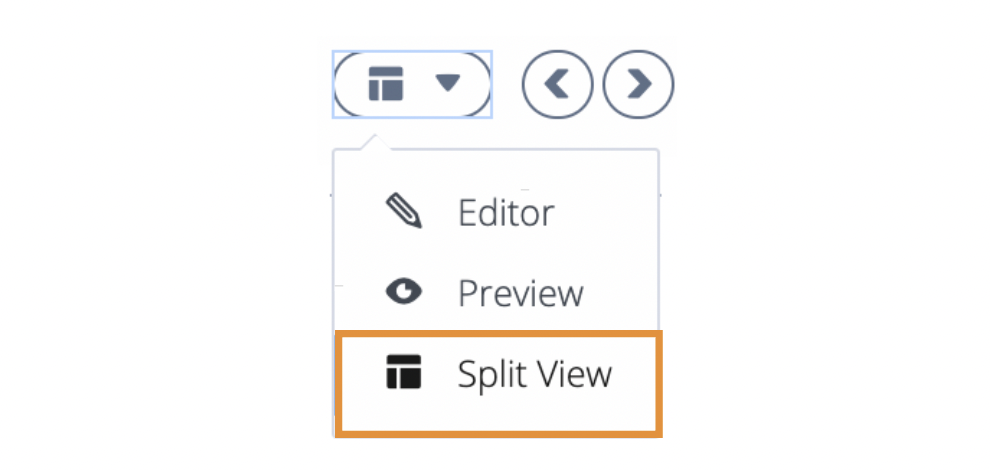
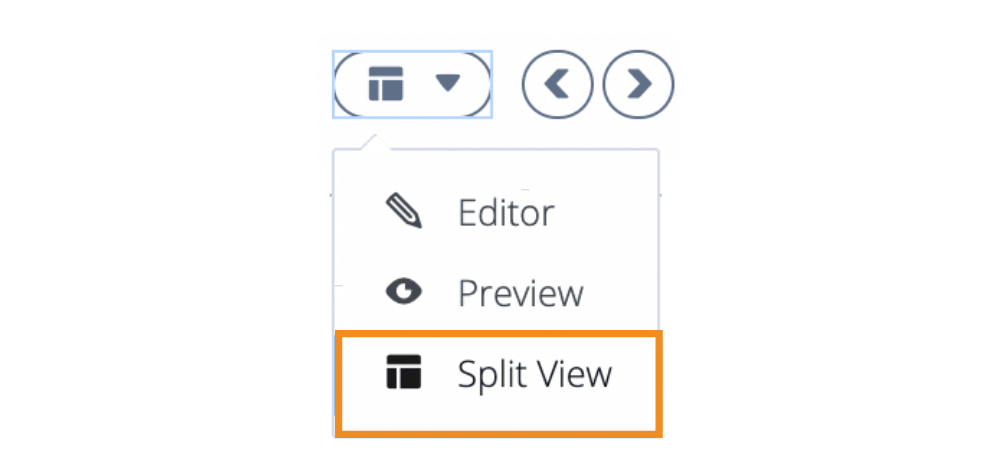
adjusted png file sizes

Changed region(s): [[0.3333, 0.6851, 0.6667, 0.9532]]

diff --git a/.guides/content/Setting-up-your-page-for-display-ec35.md b/.guides/content/Setting-up-your-page-for-display-ec35.md
@@ -2,9 +2,9 @@
 
 | Type of Page | Description |
 | :------ | :----------- | 
-|**1 panel** ![One panel_Guide](.guides/img/1panel.png)| This page has only one panel. There is no need for a code window or terminal. |
-|**2 panels**! ![Two panels_Code Window/Guide](.guides/img/2panelnew.png) | This page has two panels: the code window and the Guide. |
-|**3 panels** !![Three panels_Code Window/Guide/Terminal](.guides/img/3panelnew.png) | This page has three panels: the code window, the terminal and the Guide.|
+|**1 panel** ![One panel_Guide](.guides/img/onepanel.png)| This page has only one panel. There is no need for a code window or terminal. |
+|**2 panels** ![Two panels_Code Window/Guide](.guides/img/twopanel.png) | This page has two panels: the code window and the Guide. |
+|**3 panels** ![Three panels_Code Window/Guide/Terminal](.guides/img/threepanel.png) | This page has three panels: the code window, the terminal and the Guide.|
 
 ## Creating a Page with 2 Panels
 ---
@@ -14,7 +14,7 @@ Follow the steps below to create a page with a code window:
 
 2. Highlight **Page 2** and rename it “Adding a Code Window.”
 
-3. Add some text to your Guide. Click the clipboard to copy the text. Paste into your page.
+3. Add some text to your Guide. Click the clipboard to copy the text below. Paste into your page.
 
 ```
 ### Code Window
@@ -31,7 +31,7 @@ Directions/instructions on what students should do in the code window would go h
 
 7. **Save and Close** settings.
 
-![Add panels for a code window](.guides/img/addacodewindow1.png)
+![Add panels for a code window](.guides/img/addcodewind1.png)
 
 8. Click **Open Tabs.**
  
@@ -39,7 +39,7 @@ Directions/instructions on what students should do in the code window would go h
 
 10. **Save and Close** settings.
 
-![Add code window file in open tabs](.guides/img/addacodewindow2.png)
+![Add code window file in open tabs](.guides/img/addcodewind2.png)
 
 11. Now, when you click **Preview**, you should see two panels: the code window and the Guide! 
 
@@ -52,7 +52,7 @@ Follow the steps below to create a page with a code window and a terminal:
 
 13. Highlight **New Page** and rename it “Adding a Terminal.”
 
-14. Add some text to our Guide. Click the clipboard to copy the text. Paste into your page.
+14. Add some text to our Guide. Click the clipboard to copy the text below. Paste into your page.
 
 ```
 Terminal 
@@ -69,13 +69,15 @@ The terminal allows us to work with code that requires input.
 
 18. **Save and Close** settings.
 
-![Add panels for a terminal](.guides/img/new3panel.png)
+![Add panels for a terminal](.guides/img/addterminal1.png)
 
 19. Click **Open Tabs.**
 
 20. First, add the code window. Drag over the file `test2.py` into the space under `Add Tab`. Make sure the location of the panel is 0. 
 
 21. Now, add the terminal. Click the **Add Tab** button and specify that the type is **Terminal.** Make sure the location of the panel is 1. 
+
+![Add terminal file in open tabs](.guides/img/addterm2.png)
 
 <table><tbody ><tr><td><details><summary>
 Helpful Advice!
@@ -85,7 +87,5 @@ Type `clear` into the Terminal's file name to get a much cleaner Terminal!</deta
 </table>
 	
 22. **Save and Close** settings.
-
-![Add terminal file in open tabs](.guides/img/new3panelopentabs.png)
 
 23. Now, when you click **Preview**, you should see three panels: the code window, the Terminal and the Guide! 

diff --git a/.guides/content/Adding-instructional-materials-4f21.md b/.guides/content/Adding-instructional-materials-4f21.md
@@ -10,9 +10,9 @@ You can assign the project we created earlier or use a Codio supplied project.
 
 2. Click the **New Module** button.
 
-![Create new module](.guides/img/firstmodule.png)
+![Create new module](.guides/img/selectnewmodule.png)
 
-3. Select **Add Empty Module** and create your module with the name **Week 1**
+3. Select **Add Empty Module** and create your module with the name **Week 1**.
 
 4. Click **Add Module**.
 ![Name the module](.guides/img/addModule.png)
@@ -20,17 +20,17 @@ You can assign the project we created earlier or use a Codio supplied project.
 ## Add an Assignment
 5. In your newly created module click **Add Assignment** and then select **Project Based**
 
-![Add assignment dropdown](.guides/img/addassignmentnew.png)
+![Add assignment dropdown](.guides/img/assignmentadd.png)
 
 6. Use the project you created earlier in this guide. For the **Starting Point** select **Click here** to use an existing project.
 
-![Select starting point](.guides/img/startingpointnew.png)
+![Select starting point](.guides/img/selectstartingpoint.png)
 
 7. Click **Copy Project**. 
 
 8. The name of the project you created earlier should appear in the **COPY FROM** field.
 
-![Copy a project](.guides/img/forkprojectnew.png)
+![Copy a project](.guides/img/forkaproject.png)
 
 *Codio takes a snapshot of your source project, ready for the students to clone when they start the Assignment. Changes you make to the source project will not be reflected automatically in the student assignment in your course.*
 
@@ -38,11 +38,11 @@ You can assign the project we created earlier or use a Codio supplied project.
 
 10. After selecting **Create**, the assignment will open.
 
-![Create name for assignment](.guides/img/newname.png)
+![Create name for assignment](.guides/img/nametheproject.png)
 
 ## Publish your Assignment
 11. Go to **Education->Publish Assignment** to make the assignment visible to your students and for it to show on the **Teach** tab.
 
-![Publish](.guides/img/newpublish.png)
+![Publish](.guides/img/publish.png)
 
 

diff --git a/.guides/content/Creating-a-Course-from-Codio-Resources-0d20.md b/.guides/content/Creating-a-Course-from-Codio-Resources-0d20.md
@@ -1,0 +1,32 @@
+Instead of creating your own course from scratch, you can access Codio's Resource Catalog and add any of the free Codio Resources of OERs. Click `Resources` on the left-hand side of the dashboard. 
+
+![Codio resource page](.guides/img/resourcepage.png)
+
+||| important
+In the catalog, you can filter by type, language or category. 
+
+* **Codio Resource:** Home-grown resource created by our Content team. Engaging, hands-on and interactive!
+* **OER:** Textbooks that have been ported into Codio. 
+
+|||
+
+1. Once you decide on a course you want, click:
+![Get resource details](.guides/img/resourcedetails.png)
+
+2. Within the Resource Details, you can see information about the course, including its modules. `Add to my Account` when you are ready! 
+![Add to my account](.guides/img/addtomyaccount.png)
+
+3. Once you give your course a name, press `Create`.
+
+4. Explore your course. Remember: everything in Codio Resources (and we mean everything)—from the text and code examples to auto-graded assessments, can be customized to suit your teaching context. You can even mix-and-match different resources together and with your own content! 
+
+
+||| important
+**Codio.co.uk** users need to use share codes to add resources to their account. 
+
+[**View a complete list**](https://docs.codio.com/instructors/setupcourses/resources/codioresources.html#codio-resources)  of courses and share codes. 
+
+[**More information**](https://docs.codio.com/instructors/setupcourses/create-course.html#create-fromsharecode) on how to create a course from a share code. 
+|||
+
+[**For more information on courses, click here.**](https://docs.codio.com/instructors/setupcourses/courses.html) 

diff --git a/.guides/content/Creating-an-Assessment-539d.md b/.guides/content/Creating-an-Assessment-539d.md
@@ -20,7 +20,7 @@ Create the assessment in page 2, titled *"Adding a Code Window."*
 ---
 1. Click on the **Assessments dropdown menu** and select **Standard Code Test**.
 
-![Assessment dropdown to standard code test](.guides/img/standardcode.png)
+![Assessment dropdown to standard code test](.guides/img/assessmentlibrarystandardcode.png)
 
 2. Make sure **GENERAL** is selected.
 
@@ -33,7 +33,7 @@ Create the assessment in page 2, titled *"Adding a Code Window."*
 
 5. Select **EXECUTION** and type `python3 test.py` in the **COMMAND** field.
 
-![Standard code test_Execution](.guides/img/newassess.png)
+![Standard code test_Execution](.guides/img/standardcodeexecution.png)
 
 6. Select **GRADING**.
 
@@ -48,7 +48,7 @@ Create the assessment in page 2, titled *"Adding a Code Window."*
 
 11. When you go back to **Split View**, you will see the assessment in the Guides Editor on left and how it is rendered in the preview on the right.
 
-![Rendered standard code test](.guides/img/renderedstandardcodetest.png)
+![Rendered standard code test](.guides/img/renderedcodetest.png)
 
 #### Creating the Try It! Button
 ---
@@ -64,7 +64,7 @@ It is important to note that the `Check It!` button submits students' code for a
 
 This is how it will look once rendered:
 
-![Rendered try it button and standard code test](.guides/img/renderedbuttons.png)
+![Rendered try it button and standard code test](.guides/img/buttonrender.png)
 
 #### Test It Out
 ---

diff --git a/.guides/content/Creating-a-course-4e79.md b/.guides/content/Creating-a-course-4e79.md
@@ -6,7 +6,7 @@
 Tools->Guides->Edit
 </summary><hr>
 	
-![Select tools-edit from menu](.guides/img/toolsedit.png)
+![Select tools-edit from menu](.guides/img/toolsedit.png) 
 	
 </details></td></tr></tbody>
 </table>
@@ -17,7 +17,7 @@ OR
 Click the pencil in the file tree
 </summary><hr>
 	
-![Pencil in filetree](.guides/img/pencilnew.png)
+![Pencil in filetree](.guides/img/filetreepencil.png)
 	
 </details></td></tr></tbody>
 </table>
@@ -30,6 +30,7 @@ Click the pencil in the file tree
 ![Preview content](.guides/img/preview.png)
 
 **Edit**: Allows you to make edits to your page. 
+
 ![Edit content](.guides/img/edit.png)
 
 *To edit content and view the rendered version at the same time, click the **Panel Layout** dropdown menu and select **Split View**.* 
@@ -44,7 +45,7 @@ Click the pencil in the file tree
 
 4. Highlight **Page 1** and type "Your first assignment."
 
-![Page panel](.guides/img/pagepanel.png)
+![Page panel](.guides/img/editpage.png)
 
 5. Click the clipboard to copy the text. Paste into your first page.
 
@@ -56,7 +57,7 @@ Welcome to your first project! In this project we will learn about conditionals 
 ```
 
 This is what it will look like once it is rendered:
-![Rendered view](.guides/img/newrender.png)
+![Rendered view](.guides/img/pagerender.png)
 
 6. To rename or delete an element in your guide, right-click on the item in the **Page List**.
 

diff --git a/.guides/content/Using-an-existing-Assessment-7498.md b/.guides/content/Using-an-existing-Assessment-7498.md
@@ -1,16 +1,18 @@
 1. If the **Page List** isn't displayed, click on **index** icon.
 
-2. Click on **Add page**
+2. Click on **Add page**.
 
 3. Change the name to First Quiz and click on the entry to select the page.
 
-![Add new page for quiz](.guides/img/firstquiznew2.png)
+![Add new page for quiz](.guides/img/pageforassessment.png)
 
 4. Click on the **Add Assessment** dropdown menu and select **Assessment Library**.
 
-![Access assessment library](.guides/img/assessmentlibrarynew2.png)
+![Access assessment library](.guides/img/assessmentdropdownlibrary.png)
 
 5. Select **Codio Main** from the **Library Name** dropdown. 
+
+![Codio Main library](.guides/img/codiomaininlibrary.png)
 
 <table><tbody ><tr><td><details><summary>
 How to Search the Assessment Library
@@ -29,11 +31,9 @@ You can filter through the different assessments by tags that are auto-detected:
 
 6. Click the **Select** button on the right to use one of the assessments.
 
-![Codio Main library](.guides/img/codioMain.png)
-
 7. Click **Create**.
 
-![Create quiz](.guides/img/createquiznew.png)
+![Create quiz](.guides/img/createassessment.png)
 
 To create a local library for your organization see [this document](https://docs.codio.com/instructors/admin/organization/create-org-library.html#org-library).
 

diff --git a/.guides/content/Adding-teaching-assistants-5d7c.md b/.guides/content/Adding-teaching-assistants-5d7c.md
@@ -4,12 +4,12 @@ You can add additional teaching assistants for a selected course by sending an e
 1. Select the **Admin** tab near the top of the page.
 2. Click the **Add Teacher** link in the bottom left corner.
 
-![Add teacher to course](.guides/img/AddTAnew.png)
+![Add teacher to course](.guides/img/addata.png)
 3.
     a. If they are already members in the organization, find them in the **ADD USER FROM ORGANIZATION AS TEACHER** area and press the **Done** button once you are ready to add them.
 
     b. If they are not existing teachers in the organization (or they may be TA's and a student in another course), you can send them an email invitation to join the course as a teacher.
 
-![Add teacher to organization](.guides/img/addClassTeachernew.png)
+![Add teacher to organization](.guides/img/addtoorg.png)
 
 *Note: When the "Add this teacher as read-only" is checked, this indicates the teacher will not have edit access to the course.*

diff --git a/.guides/content/Viewing-your-materials-19b7.md b/.guides/content/Viewing-your-materials-19b7.md
@@ -14,7 +14,7 @@ You may view your course using the special student accounts Codio creates for yo
 ### Logging in as a test student
 6. As soon as you have added the test students, you are able to log in as one of the test students by pressing the **Login as** button. Please note that this is only available for the special test student accounts.
 
-![View as student](.guides/img/student-viewnew.png)
+![View as student](.guides/img/studentviewofdash.png)
 
 *Note the bar at the top of the screen, letting you know that you are logged in as a test student.*
 
@@ -31,4 +31,4 @@ One very useful feature is to 'pin' an assignment. This allows the faculty membe
 
 9. Click the 'Pin' icon. 
 
-![Pin assignment](.guides/img/pinAssignmentnew.png)
+![Pin assignment](.guides/img/pin.png)

diff --git a/.guides/content/Add-files-329f.md b/.guides/content/Add-files-329f.md
@@ -14,13 +14,13 @@ This example uses Python but you can choose any language you prefer.
 ![Create a new file](.guides/img/createFile.png) 
 
 
-3. You can switch between files by clicking on the tabs above the code or in the file tree. 
+3. You can switch between files by clicking the tabs or the files in the filetree. 
 
-![Access files](.guides/img/files.png)
+![Access files](.guides/img/file.png)
 
-4. Enter the following text into `test.py`
+4. Enter the following text into the `test.py` file.
 
 ```python
 print("Hello world")
 ```
-![Print hello world in file](.guides/img/filetabs.png)
+![Print hello world](.guides/img/filestabs.png)

diff --git a/.guides/content/Formatting-your-page-7573.md b/.guides/content/Formatting-your-page-7573.md
@@ -17,6 +17,7 @@ Markdown is a lightweight markup language that you can use to add formatting ele
 2. Click the clipboard to copy the text. Paste into your first page.
 
 ```
+
 ||| topic
 
 **if statements**
@@ -38,7 +39,9 @@ Markdown is a lightweight markup language that you can use to add formatting ele
 ```
 
 This is what it will look like once it is rendered: 
-![Rendered call out buttons](.guides/img/renderedcallouts.png)
+
+![Rendered call out buttons](.guides/img/calloutrender.png)
+
 *View your rendered content by selecting **Split View** OR **Preview.***
 
 

diff --git a/.guides/content/Creating-a-Course-9d35.md b/.guides/content/Creating-a-Course-9d35.md
@@ -7,8 +7,7 @@ Courses are organized in a hierarchical structure with modules (folders) that co
 ### Creating New Courses
 1. Create a new course by selecting **Courses** and pressing the **New Course** button at the top of the page.
 
-![Create a new course](.guides/img/course-structurenew.png)
-
+![Create a new course](.guides/img/startnewcourse.png)
 
 2. Select **Add Empty Course**.
 

diff --git a/.guides/content/Inviting-your-students-f7b2.md b/.guides/content/Inviting-your-students-f7b2.md
@@ -13,7 +13,7 @@ The student invite URL can be used to sign up for a course.
 
 3. Click on the clipboard in the **Student invite URL** field to copy the URL to the clipboard.
 
-![Student invite URL](.guides/img/studentInviteURLnew.png)
+![Student invite URL](.guides/img/URLstudentinvite.png)
 
 *You can now share this URL to invite others to your course.*
 
